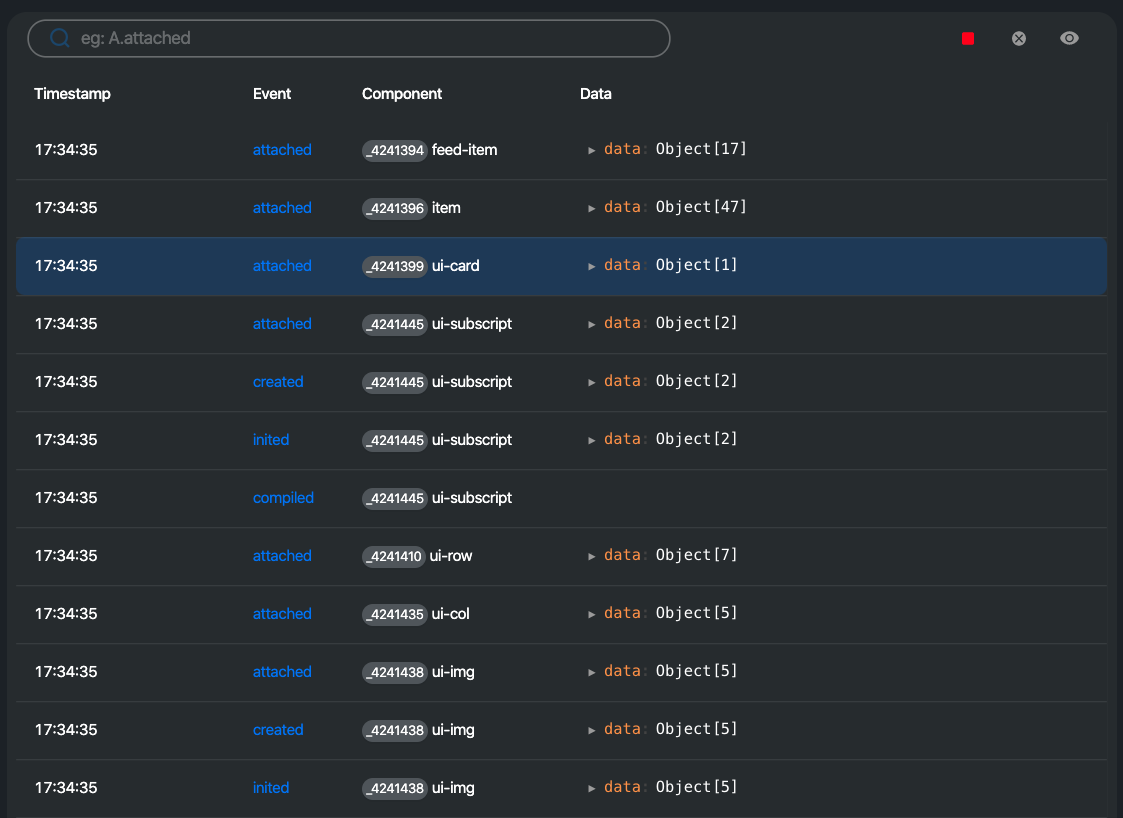
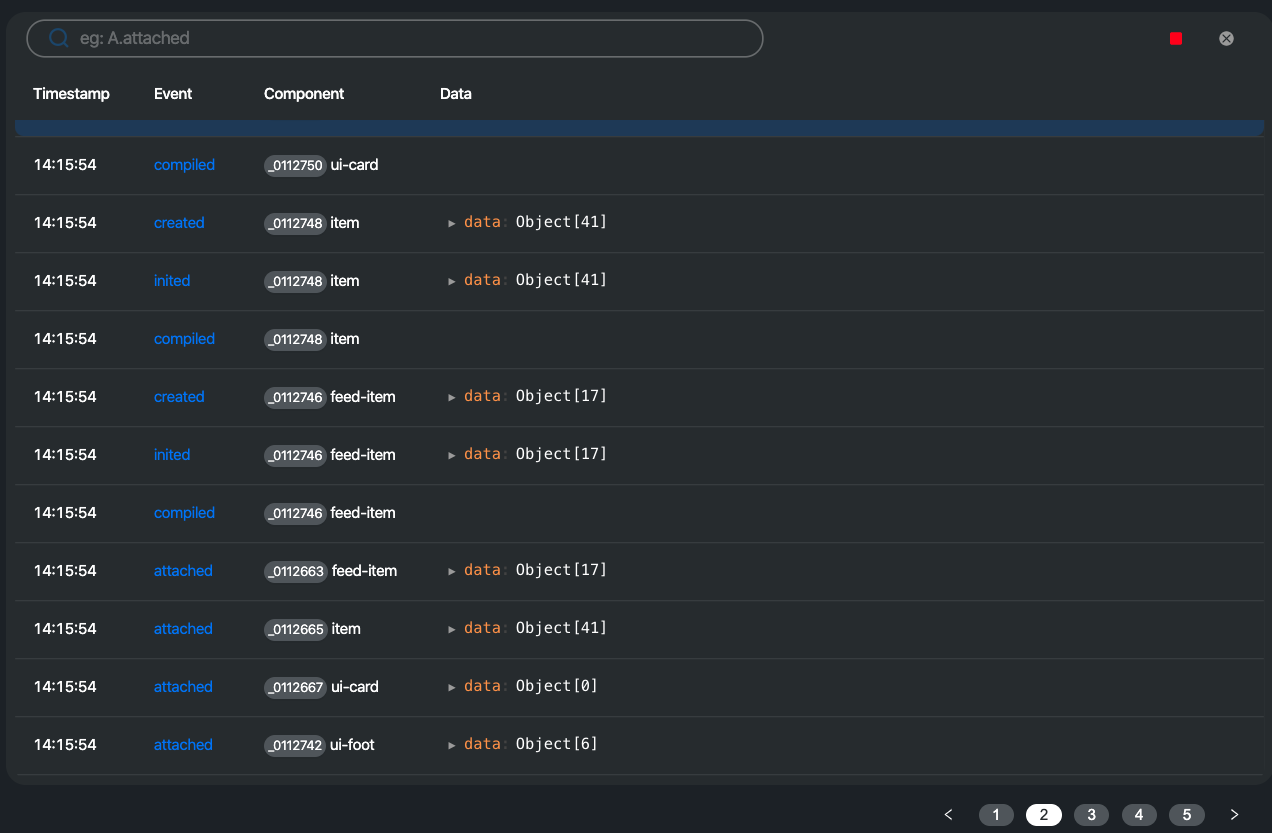
:bug: 分页解决渲染耗时过长 & UI table 展示 data 的问题

diff --git a/packages/frontend/src/index.less b/packages/frontend/src/index.less
@@ -1,3 +1,4 @@
+@import 'santd/es/pagination/style/index.less';
 body {
     font-weight: 360;
     min-width: 450px;

diff --git a/docs/user_guide.md b/docs/user_guide.md
@@ -244,7 +244,7 @@ Component tab 右侧为详细信息显示区域，包含了五个功能块：
 ### History
 ![history_list](https://raw.githubusercontent.com/baidu/san-devtools/master/docs/images/history_list.png)
 
-*History tab* 可以列举页面从加载至今的所有 **San** 发往 san-devtools 的组件生命周期的历史记录，这些生命周期包括：
+*History tab* 可以记录一段时间内 **San** 发往 san-devtools 的组件生命周期事件，展示的数据包括：
 
  - compiled
  - inited
@@ -261,8 +261,6 @@ Component tab 右侧为详细信息显示区域，包含了五个功能块：
  - Event：生命周期类型，上述生命周期之一。
  - Component：生命周期发生的组件，以组件 ID 显示，点击会跳转并且 inspect 至浏览器开发者工具 *Element* 面板。
  - Data：data 代表当生命周期钩子执行后组件 data 的快照。
-
-默认情况下，为了保证 san-devtools 的运行效率，页面从最开始的初始加载开始并不会将所有发往 san-devtools 的时间直接显示在历史记录列表内。
 
 顶部有两个部分构成：搜索框，操作按钮。搜索框的搜索规则为：两个关键字分别为「组件名称」以及「生命周期」，输入两个关键字的时候需要用 '.' 分割开。操作按钮有三个：从左到右分别为：开始/停止记录，清除所有，展示停止记录时间段触发的生命周期。
 
@@ -299,7 +297,6 @@ Component tab 右侧为详细信息显示区域，包含了五个功能块：
  - data：生成组件结构树的原始对象。
  - storeMap：所有 store 的实例的 Map，健为 store 的名称。
  - componentMap：页面上所有挂载了的组件实例的 Map，健为组件实例的 id。
- - history：历史记录快照。
 
 除此之外，san-devtools 还会向组件挂载的 DOM 对象上附加一些内容：
 
